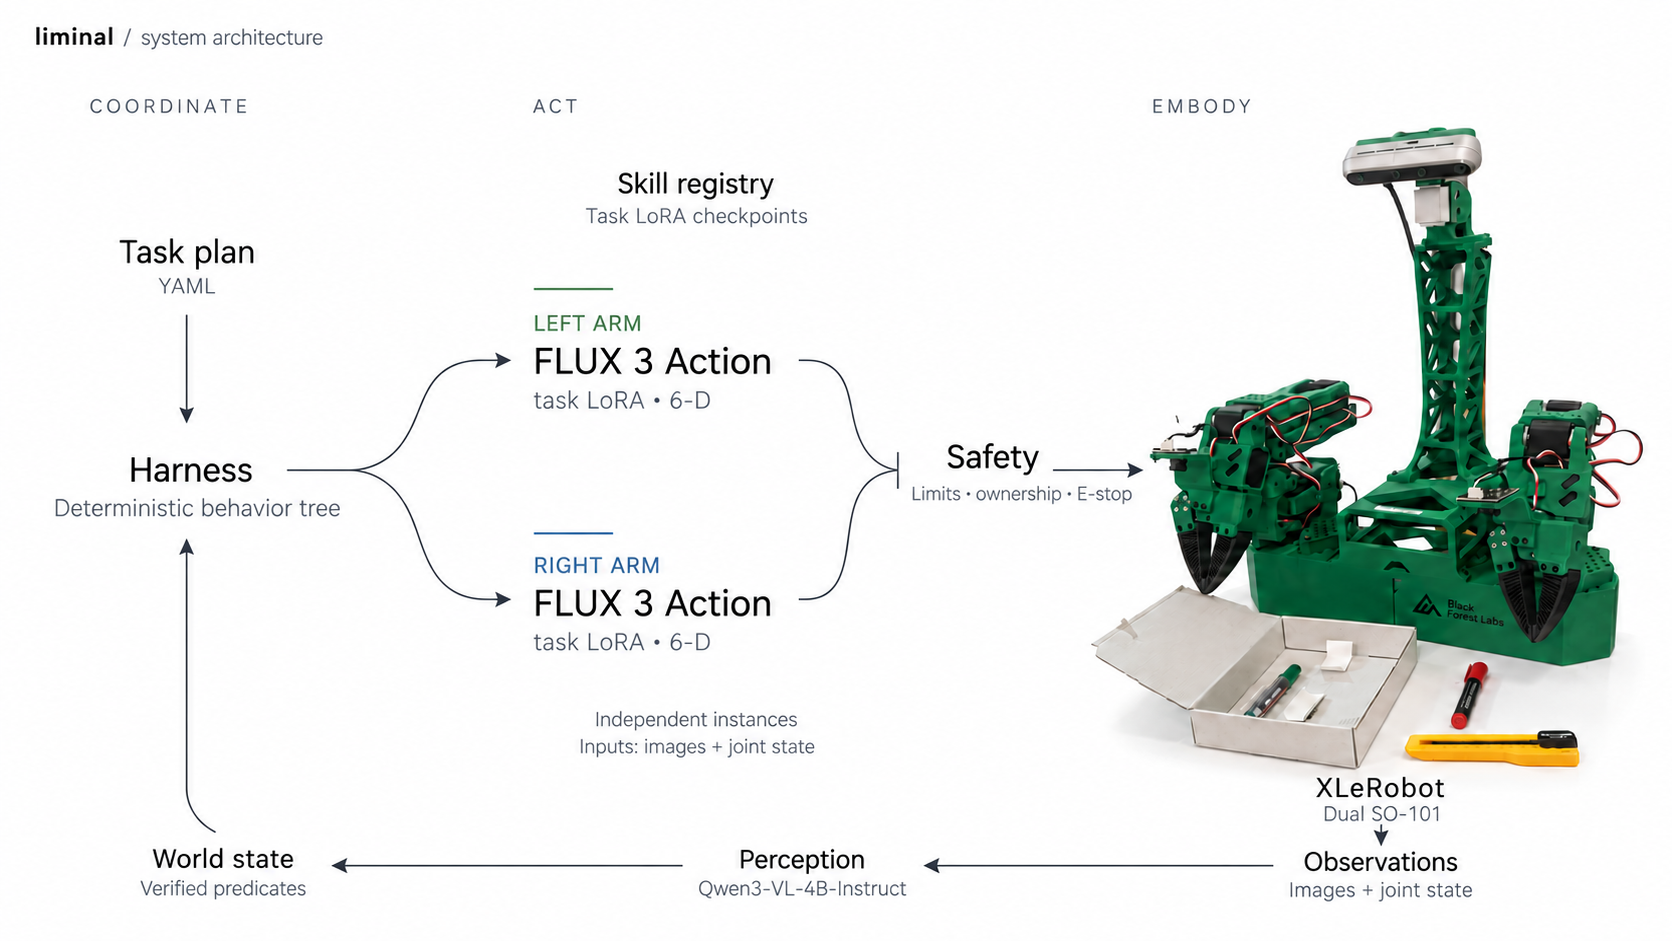
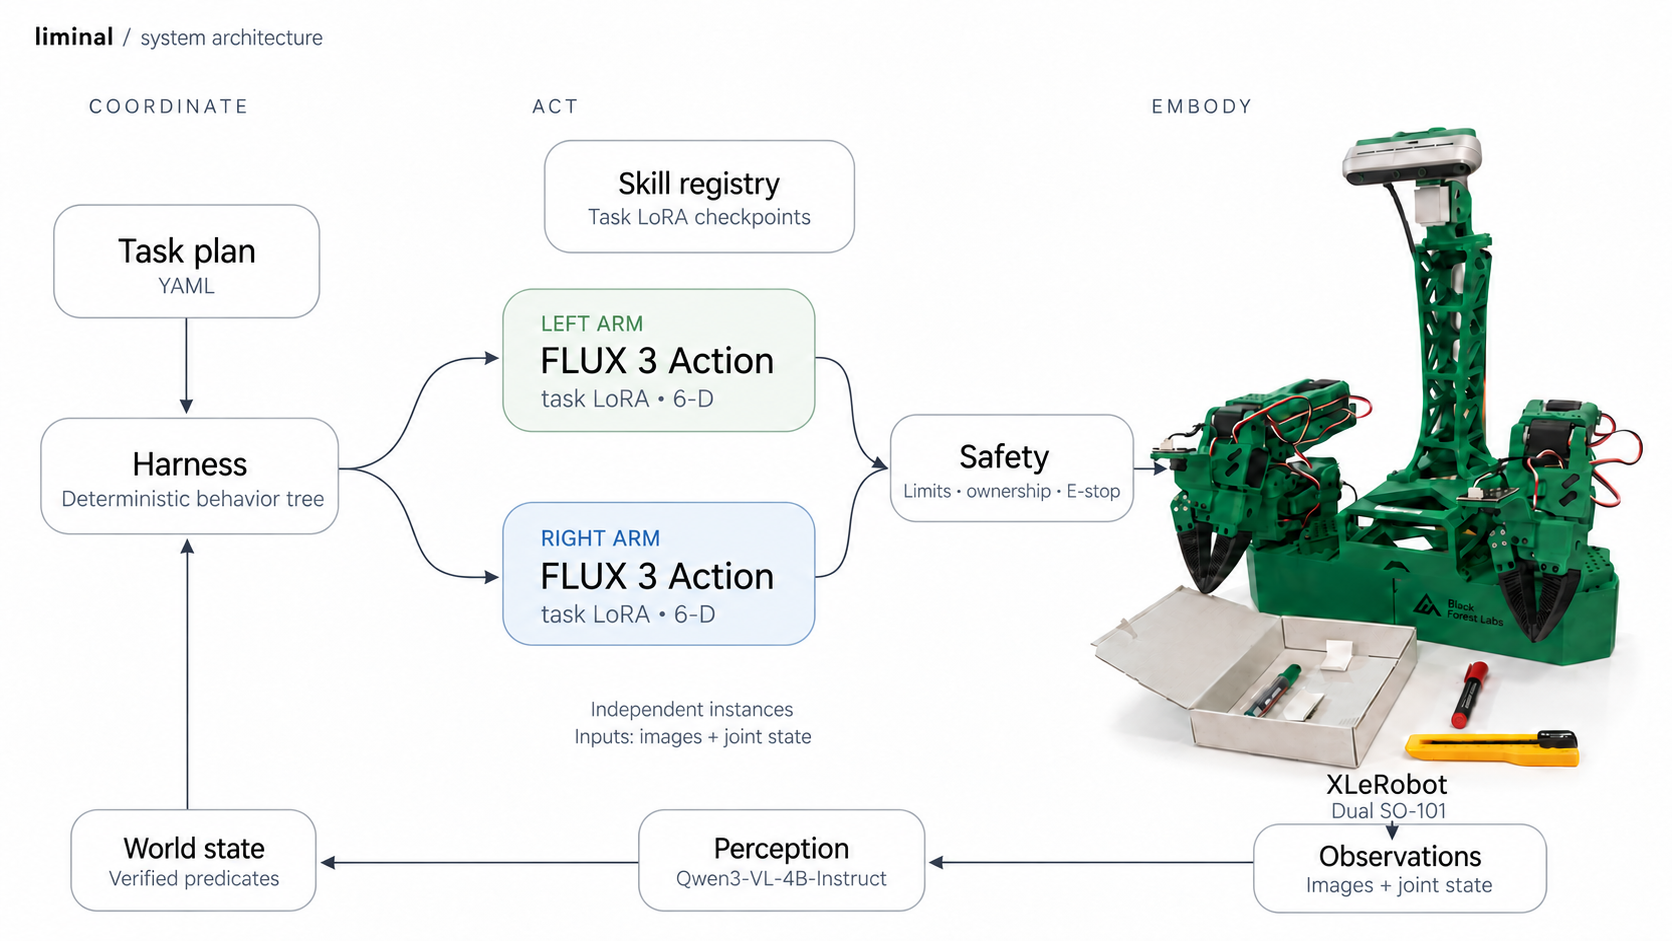
ws3: restore softly rounded architecture containers

diff --git a/README.md b/README.md
@@ -27,7 +27,7 @@ recorded successful rollout.
 See [the architecture](docs/architecture.md) for the complete contracts.
 
 Figure generated and refined with the built-in image-generation tool using our
-robot photograph; [generation and refinement prompts](docs/assets/architecture-minimal-prompt.txt).
+robot photograph; [generation and refinement prompts](docs/assets/architecture-rounded-prompt.txt).
 Visual references: [OpenVLA](https://openvla.github.io/) and its
 [GitHub repo](https://github.com/openvla/openvla),
 [Diffusion Policy](https://diffusion-policy.cs.columbia.edu/) and its
